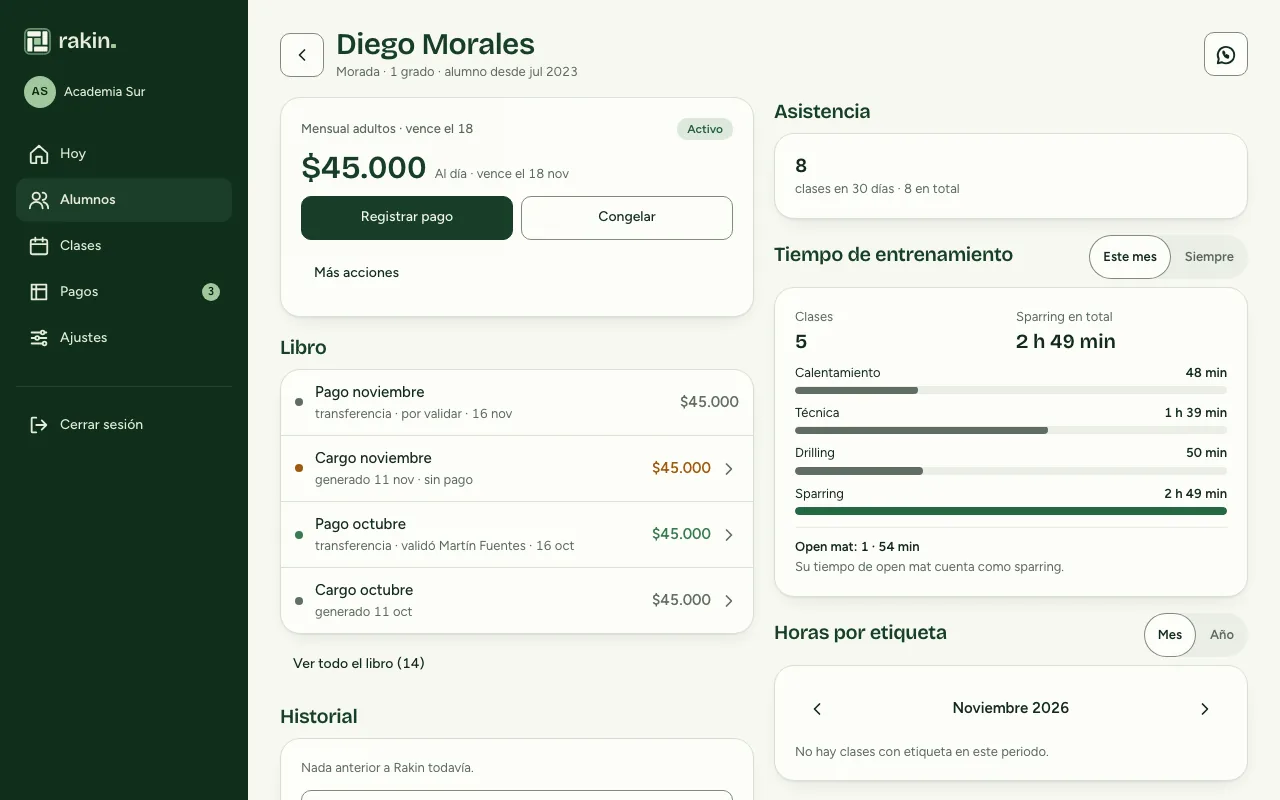
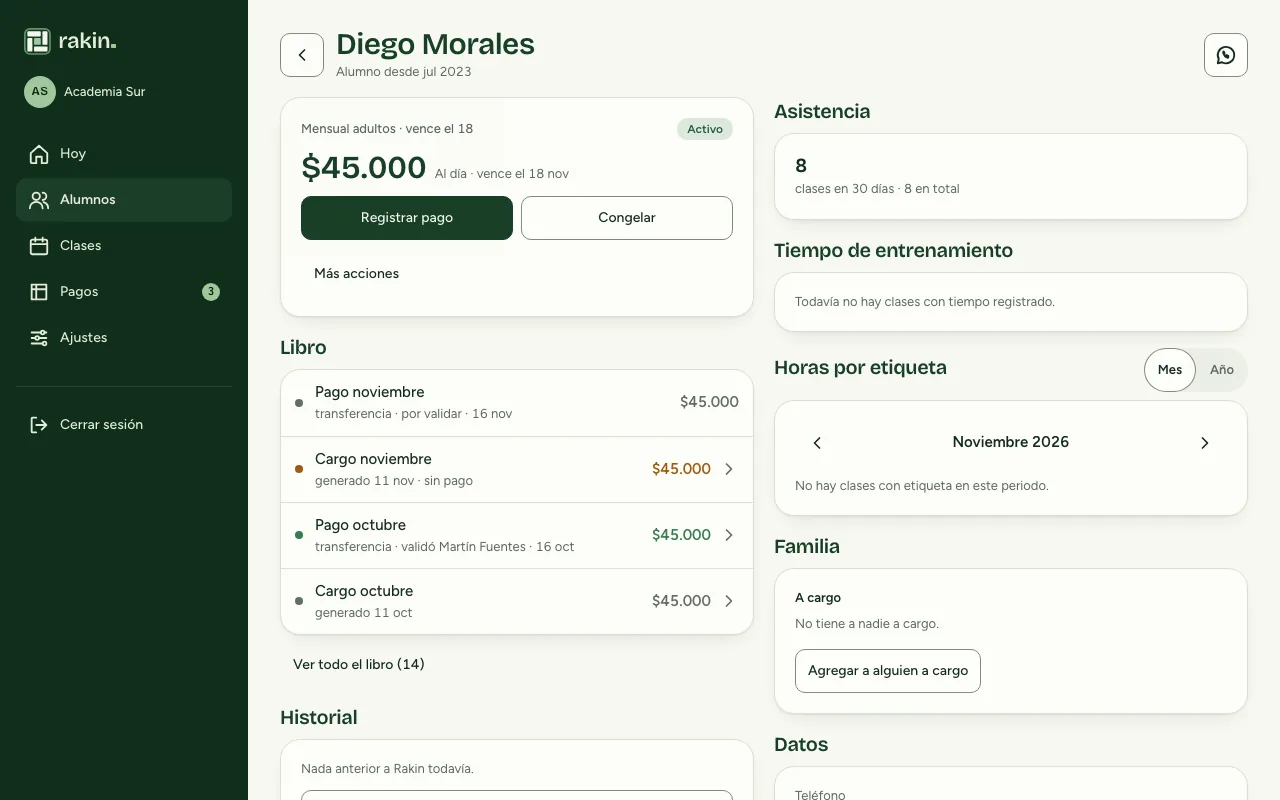
rakin.app: a landing page that shows what Rakin does: screenshots of a gym of no particular sport, and a notice page with no drafting notes
`site/screenshots.py` now sets the local seed gym up with no grading, no class
blocks and no open mats before the shots, and refuses a shot whose screen
holds a martial-arts word (Sparring, Open mat, Drilling, cinturón, grado, …).
The ficha and /me shots are retaken; the copy and alt texts follow.

`site/build.py` leaves the notice's `[ABOGADO: …]` and `[PENDIENTE: …]`
notes and its BORRADOR header out of `/privacidad/`, puts "Versión
preliminar, en revisión. Última actualización: <fecha>." under the title,
and refuses to build if a drafting note is left. `deploy/test-hosted.sh`
checks the served page for both, and reads each page into a variable before
grepping it, so `grep -q` cannot fail curl under pipefail.

diff --git a/site/index.html b/site/index.html
@@ -125,7 +125,7 @@
             <ul>
               <li>Pasas lista desde el teléfono, un toque por alumno, y ves cuántas clases lleva cada uno.</li>
               <li>Quién dejó de venir, para llamarlo antes de que se vaya.</li>
-              <li>Alumnos activos, grados y la ficha de cada uno. Cada alumno tiene su propia página.</li>
+              <li>La ficha de cada alumno, con su plan, sus pagos y su asistencia, y sus grados si tu academia los usa. Cada alumno tiene además su propia página.</li>
             </ul>
           </div>
           <div class="pillar__shots">
@@ -136,7 +136,7 @@
               height="800"
               loading="lazy"
               decoding="async"
-              alt="La ficha de un alumno en el computador: su plan al día, el libro de pagos, la asistencia de los últimos 30 días y su tiempo de entrenamiento."
+              alt="La ficha de un alumno en el computador: su plan al día, el libro de pagos y su asistencia de los últimos 30 días."
             />
             <img
               class="phone phone--over"
@@ -182,7 +182,7 @@
               height="1688"
               loading="lazy"
               decoding="async"
-              alt="La página del alumno en su teléfono: su próximo pago, el comprobante en revisión, su plan y sus clases del mes."
+              alt="La página del alumno en su teléfono: su próximo pago, el comprobante en revisión y su plan."
             />
           </figure>
         </div>

diff --git a/site/build.py b/site/build.py
@@ -11,7 +11,8 @@ Writes, under `--out` (default `site/dist`):
 * `index.html`: `site/index.html`, with `site/styles.css` inlined, the dark
   lockup drawn inline and `CONTACT_EMAIL` filled in;
 * `privacidad/index.html`: Rakin's own privacy notice,
-  `docs/legal/aviso-de-privacidad-rakin.md`, rendered from its policy on;
+  `docs/legal/aviso-de-privacidad-rakin.md`, rendered from its policy on, with
+  its drafting notes left out;
 * `img/`, the screenshots (`site/screenshots.py` takes them), `fonts/` and the
   icons and link preview the app also serves (`frontend/public/`).
 
@@ -91,18 +92,32 @@ def lockup() -> str:
     return svg.replace("<svg ", '<svg aria-hidden="true" focusable="false" ', 1)
 
 
-def notice_html() -> str:
-    """The notice from its policy on, under the draft line it opens with.
+# The drafting notes for the lawyer and for later work, in the notice's own markup
+# (docs/legal/README.md). They are for the repo's readers, never a visitor.
+NOTES = re.compile(r" ?`\[(?:ABOGADO|PENDIENTE):.*?\]`")
 
-    The text before the policy says where the notice is published, for the repo's
-    readers; a visitor needs only the draft line and the policy itself."""
+
+def notice_html() -> str:
+    """The notice from its policy on, with no drafting notes.
+
+    The draft line the file opens with ("BORRADOR: pendiente de revisión por abogado.
+    <fecha>") and the policy's own "Versión 1, vigente desde [fecha]" become one line
+    under the title: a preliminary version, and the date it was last updated. The text
+    before the policy says where the notice is published, for the repo's readers."""
     text = NOTICE.read_text()
-    draft = text.split("\n", 1)[0]
-    if not draft.startswith("> "):
-        raise SystemExit(f"build: {NOTICE.name} no longer opens with its draft line")
-    policy = text.index("## Política de privacidad de Rakin")
+    draft = re.match(r"> \*\*BORRADOR[^*]*\*\* (.+?)\.?\n", text)
+    if not draft:
+        raise SystemExit(f"build: {NOTICE.name} no longer opens with its dated draft line")
+    policy = text[text.index("## Política de privacidad de Rakin") :]
     # One level up: the policy's title is the page's h1.
-    body = draft + "\n\n" + text[policy + 1 :].replace("\n#", "\n")
+    title, rest = policy[1:].replace("\n#", "\n").split("\n", 1)
+    rest = re.sub(r"^\s*Versión [^\n]*\n", "", rest, count=1)
+    status = f"*Versión preliminar, en revisión. Última actualización: {draft.group(1)}.*"
+    body = NOTES.sub("", f"{title}\n\n{status}\n{rest}")
+    if re.search(r"ABOGADO|PENDIENTE|BORRADOR", body):
+        raise SystemExit(
+            f"build: a drafting note in {NOTICE.name} is not in the `[ABOGADO: …]` form"
+        )
     # Sibling documents, and the research one folder up, go to the repo on GitHub.
     body = re.sub(
         r"\]\(\.\./([\w-]+\.md)", r"](https://github.com/rakin-app/rakin/blob/main/docs/\1", body

diff --git a/site/screenshots.py b/site/screenshots.py
@@ -17,6 +17,12 @@ locally.
 Seed data only. The stack is the one in this checkout's `.env`
 (`PUBLIC_BASE_URL`), and the script refuses any host but localhost, so a
 screenshot can never hold staging's or a real gym's members.
+
+The page speaks to any gym, and Academia Sur is seeded as a jiu-jitsu academy.
+So before the shots the script sets it up as a gym with no sport of its own
+(`NEUTRAL_GYM`): its one activity grades no one, so no belts show, and its
+classes record no blocks (Drilling, Sparring) and hold no open mats. That
+changes the local seed only; `make seed` on a fresh stack puts it back.
 """
 
 import argparse
@@ -48,6 +54,22 @@ PHONE = {
     "has_touch": True,
 }
 DESKTOP = {"viewport": {"width": 1280, "height": 800}, "device_scale_factor": 1}
+
+# Words that would make the page read as a martial-arts app. A shot whose screen
+# holds one of them fails, so a later seed or screen change cannot slip one in.
+SPORT_WORDS = re.compile(
+    r"\b(sparring|open mat|drilling|cintur[oó]n|grados?|graduaci[oó]n|bjj|jiu|tatami|dojo|kimono)\b",
+    re.IGNORECASE,
+)
+
+# Academia Sur as a gym of no particular sport. Each statement is safe to run again.
+NEUTRAL_GYM = """
+BEGIN;
+UPDATE gym_activity SET name = 'Entrenamiento', uses_grades = false;
+DELETE FROM session_block;
+UPDATE class_type SET kind = 'class', name = 'Práctica libre' WHERE kind = 'open_mat';
+COMMIT;
+"""
 
 
 @dataclass(frozen=True)
@@ -110,6 +132,18 @@ def sign_in_link(base: str, email: str) -> str:
     sys.exit(f"screenshots: no sign-in link for {email} in the api's log; is the stack seeded?")
 
 
+def neutral_gym() -> None:
+    subprocess.run(
+        ["docker", "compose", "exec", "-T", "postgres", "psql", "-q", "-v", "ON_ERROR_STOP=1"]
+        + ["-U", "rakin", "-d", "rakin"],
+        cwd=ROOT,
+        input=NEUTRAL_GYM,
+        text=True,
+        capture_output=True,
+        check=True,
+    )
+
+
 def settle(page: Page) -> None:
     page.wait_for_load_state("networkidle")
     # No caret, no hover, no transition caught halfway.
@@ -132,6 +166,9 @@ def take(page: Page, base: str, shot: Shot) -> None:
             "el => window.scrollTo(0, el.getBoundingClientRect().top + window.scrollY - 72)"
         )
         page.wait_for_timeout(200)
+    words = sorted({m.lower() for m in SPORT_WORDS.findall(page.inner_text("body"))})
+    if words:
+        sys.exit(f"screenshots: {shot.name} shows {', '.join(words)}; the page is for any gym")
     png = page.screenshot()
     image = Image.open(io.BytesIO(png)).convert("RGB")
     OUT.mkdir(parents=True, exist_ok=True)
@@ -147,6 +184,7 @@ def main() -> None:
     args = parser.parse_args()
     shots = [s for s in SHOTS if not args.only or s.name in args.only]
     base = base_url()
+    neutral_gym()
     with sync_playwright() as pw:
         browser = pw.chromium.launch()
         sessions: dict[str, dict] = {}
